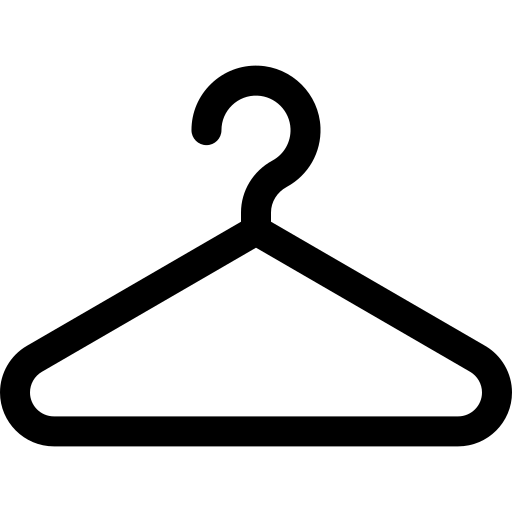
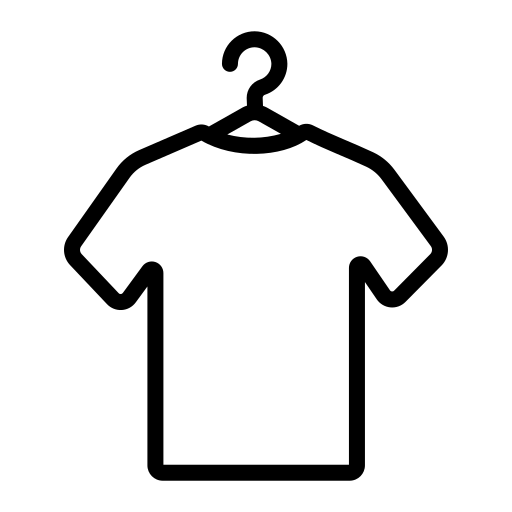
Changed no-item-image, added linear progress to single item page, added delete item functionality

Changed region(s): [[0.0, 0.0625, 1.0, 0.9375]]

diff --git a/src/pages/Item/Info.jsx b/src/pages/Item/Info.jsx
@@ -1,4 +1,4 @@
-import { Box, Typography, List, ListItem, ListItemText, ListItemAvatar, Avatar, styled } from '@mui/material';
+import { Box, Typography, List, ListItem, ListItemText, ListItemAvatar, Avatar, styled, Button } from '@mui/material';
 import { ItemApi } from '../../api/ItemApi';
 import Likes from '../../components/ui/Likes';
 import React from 'react';
@@ -39,7 +39,7 @@ const Info = ({ item, setFetchedItem }) => {
               <LocalOfferIcon />
             </Avatar>
           </ListItemAvatar>
-          <ListItemText primary={item.brand} secondary="Brand" />
+          <ListItemText primary={item.brand ? item.brand : "No data"} secondary="Brand" />
         </ListItem>
         <Divider variant="inset" component="li" />
         <ListItem>
@@ -48,7 +48,7 @@ const Info = ({ item, setFetchedItem }) => {
               <AbcIcon />
             </Avatar>
           </ListItemAvatar>
-          <ListItemText primary={item.model} secondary="Model" />
+          <ListItemText primary={item.model ? item.model : "No data"} secondary="Model" />
         </ListItem>
         <Divider variant="inset" component="li" />
         <ListItem>
@@ -57,7 +57,7 @@ const Info = ({ item, setFetchedItem }) => {
               <ColorLensIcon />
             </Avatar>
           </ListItemAvatar>
-          <ListItemText primary={item.colorway} secondary="Colorway" />
+          <ListItemText primary={item.colorway ? item.colorway : "No data"} secondary="Colorway" />
         </ListItem>
         <Divider variant="inset" component="li" />
         <ListItem>
@@ -66,7 +66,7 @@ const Info = ({ item, setFetchedItem }) => {
               <AttachMoneyIcon />
             </Avatar>
           </ListItemAvatar>
-          <ListItemText primary={`${item.price}€`} secondary="Price" />
+          <ListItemText primary={item.price ? `${item.price}€` : "No data"} secondary="Price" />
         </ListItem>
         <Divider variant="inset" component="li" />
         <ListItem>
@@ -75,7 +75,7 @@ const Info = ({ item, setFetchedItem }) => {
               <CalendarMonthIcon />
             </Avatar>
           </ListItemAvatar>
-          <ListItemText primary={item.purchaseDate.split('T')[0]} secondary="Date of purchase" />
+          <ListItemText primary={item.purchaseDate ? item.purchaseDate.split('T')[0] : "No data"} secondary="Date of purchase" />
         </ListItem>
         <Divider variant="inset" component="li" />
         <ListItem>

diff --git a/src/pages/Item/index.jsx b/src/pages/Item/index.jsx
@@ -1,4 +1,4 @@
-import { Box} from '@mui/material';
+import { Box, Button, Typography, LinearProgress } from '@mui/material';
 import React from 'react';
 import { useParams } from 'react-router-dom';
 import { ItemApi } from '../../api/ItemApi';
@@ -6,11 +6,12 @@ import ImagesGallery from './ImagesGallery';
 import Info from './Info';
 import { Container } from '@mui/system';
 import Grid from '@mui/material/Unstable_Grid2';
-
+import { useNavigate } from 'react-router-dom';
 
 const Item = () => {
   const { itemId } = useParams();
   const [fetchedItem, setFetchedItem] = React.useState(null);
+  const navigate = useNavigate();
 
   const fetchItem = async () => {
     try {
@@ -25,25 +26,41 @@ const Item = () => {
     fetchItem();
   }, []);
 
+  const handleDelete = async () => {
+    try {
+      const response = await ItemApi.deleteItem(fetchedItem.id);
+      navigate(`/myItems`);
+    } catch (error) {
+      console.error(error);
+    }
+  };
   return (
-    <>
-      {fetchedItem !== null ? (
-        <Box>
-          <Container>
-            <Grid container display={'flex'} justifyContent={'space-around'} mt={"3%"}>
+    <Box>
+      <Container>
+        {fetchedItem !== null ? (
+          <>
+            <Grid container display={'flex'} justifyContent={'space-around'} mt={'3%'}>
               <Grid xs={12} md={6}>
-              <ImagesGallery images={fetchedItem.images} />
+                <ImagesGallery images={fetchedItem.images} />
               </Grid>
               <Grid xs={12} md={6}>
-              <Info item={fetchedItem} setFetchedItem={setFetchedItem}/>
+                <Info item={fetchedItem} setFetchedItem={setFetchedItem} />
               </Grid>
             </Grid>
-          </Container>
-        </Box>
-      ) : (
-        <div>loading</div>
-      )}
-    </>
+            <Box display={'flex'} justifyContent={'flex-end'}>
+              <Button variant="contained" onClick={() => handleDelete()}>
+                Delete item
+              </Button>
+            </Box>
+          </>
+        ) : (
+          <Box mt={'20%'}>
+            <Typography align="center">Loading your item...</Typography>
+            <LinearProgress color="secondary" variant="indeterminate" />
+          </Box>
+        )}
+      </Container>
+    </Box>
   );
 };
 

diff --git a/src/pages/Item/ImagesGallery.jsx b/src/pages/Item/ImagesGallery.jsx
@@ -1,42 +1,44 @@
-import { Box } from '@mui/system';
-import React from 'react'
-import ImageGallery from "react-image-gallery";
-import "react-image-gallery/styles/css/image-gallery.css";
+import { Box,styled } from '@mui/system';
+import { useTheme } from '@mui/material/styles';
+import React from 'react';
+import ImageGallery from 'react-image-gallery';
+import 'react-image-gallery/styles/css/image-gallery.css';
+import noImage from '../../assets/no-item-image.png';
 
-const ImagesGallery = ({images}) => {
+
+const ImagesGallery = ({ images }) => {
+  const theme = useTheme();
   let imagesURLs = images.map((image) => {
-    return{
+    return {
       original: image.url,
       thumbnail: image.url,
-      // originalHeight: 400,
-      // originalWidth : 300
-    }
-  })
+      originalHeight: 500,
+      originalWidth: 375,
+    };
+  });
 
-  const images1 = [
-    {
-      original: "https://picsum.photos/id/1018/1000/600/",
-      thumbnail: "https://picsum.photos/id/1018/250/150/",
-    },
-    {
-      original: "https://picsum.photos/id/1015/1000/600/",
-      thumbnail: "https://picsum.photos/id/1015/250/150/",
-    },
-    {
-      original: "https://picsum.photos/id/1019/1000/600/",
-      thumbnail: "https://picsum.photos/id/1019/250/150/",
-    },
-  ];
+  const ImageContainer = styled(Box)(
+    ({ theme }) => ({
+      overflow: 'hidden',
+      display: 'block',
+    }),
+    theme.unstable_sx({
+      height: 500,
+      width: 375,
+    })
+  );
 
   return (
     <Box>
-      <ImageGallery items ={imagesURLs}
-      showPlayButton={false}
-      thumbnailPosition={'left'}
-      showBullets={true}
-      />
+      {images.length > 0 ? (
+        <ImageGallery items={imagesURLs} showPlayButton={false} thumbnailPosition={'left'} showBullets={true} />
+      ) : (
+        <ImageContainer>
+          <img src={noImage} alt="noImage" style={{ maxWidth: '100%', maxHeight: '100%' }} />
+        </ImageContainer>
+      )}
     </Box>
-  )
-}
+  );
+};
 
-export default ImagesGallery
+export default ImagesGallery;

diff --git a/src/api/ItemApi.js b/src/api/ItemApi.js
@@ -11,4 +11,6 @@ export class ItemApi {
   static likeOrUnlikeItem = async (itemId) => await authorizedApi.put(`/Items/${itemId}/like`);
 
   static createItem = async (body) => await authorizedApi.post(`/Items`, body);
+
+  static deleteItem = async (itemId) => await authorizedApi.delete(`/Items/${itemId}`);
 }
